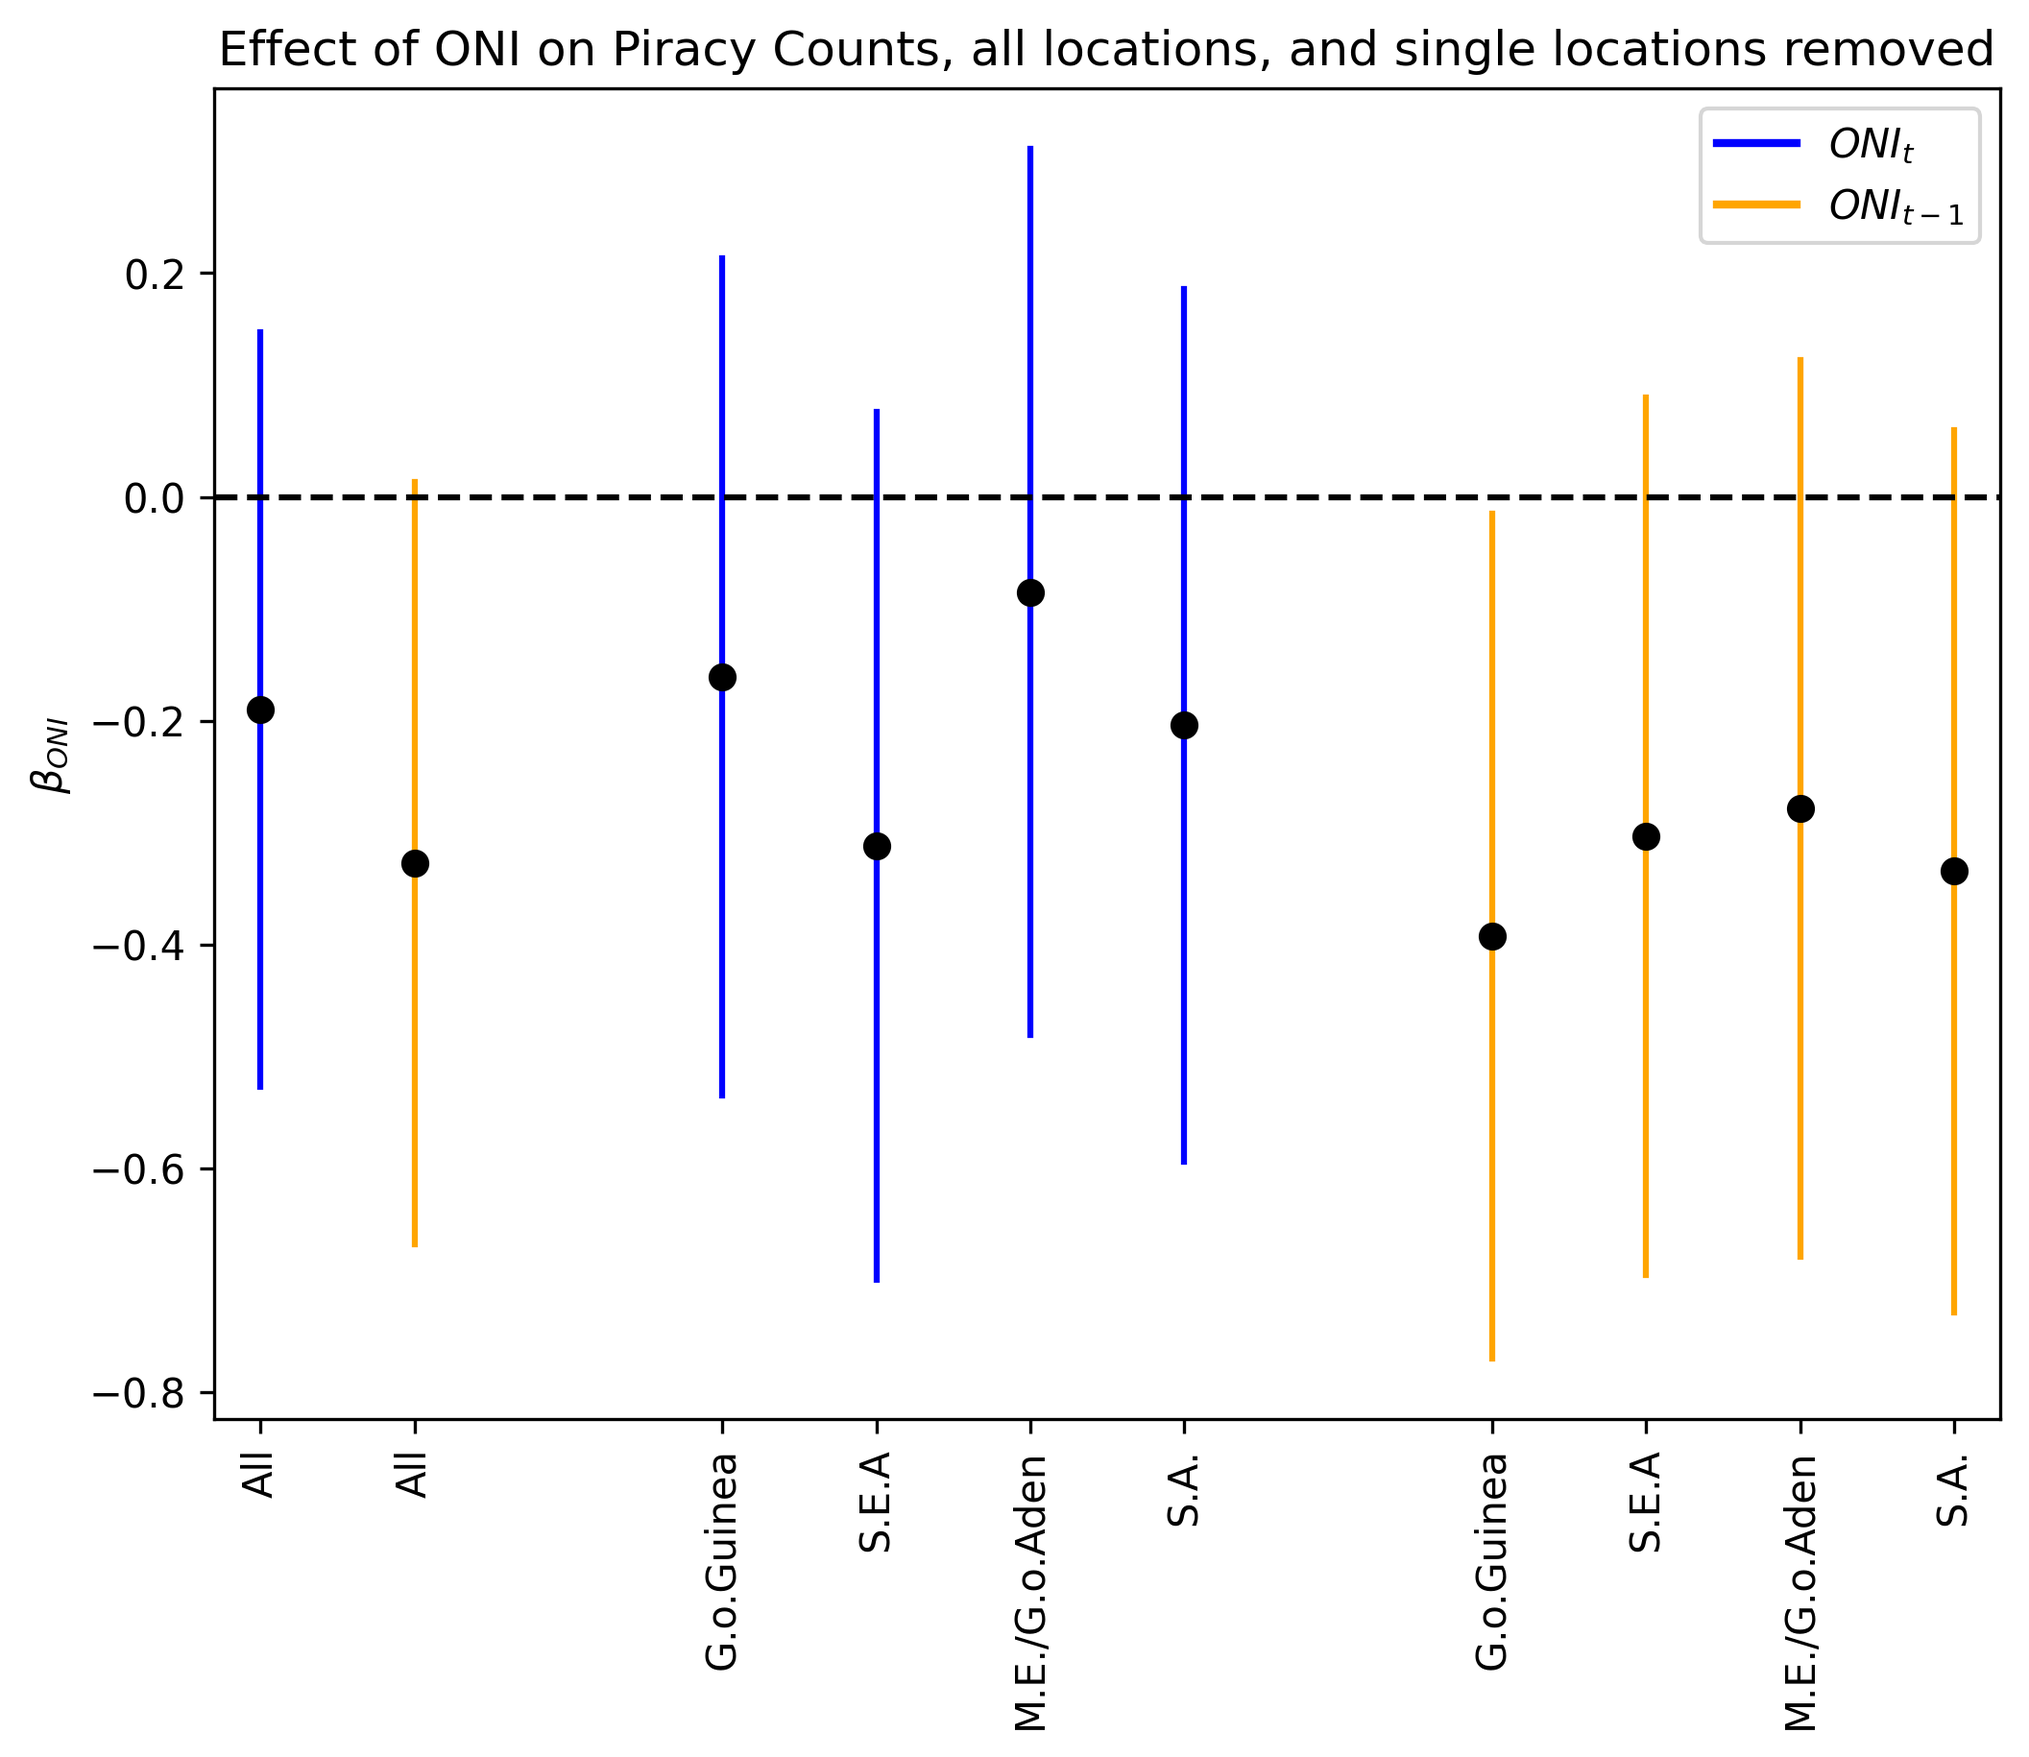
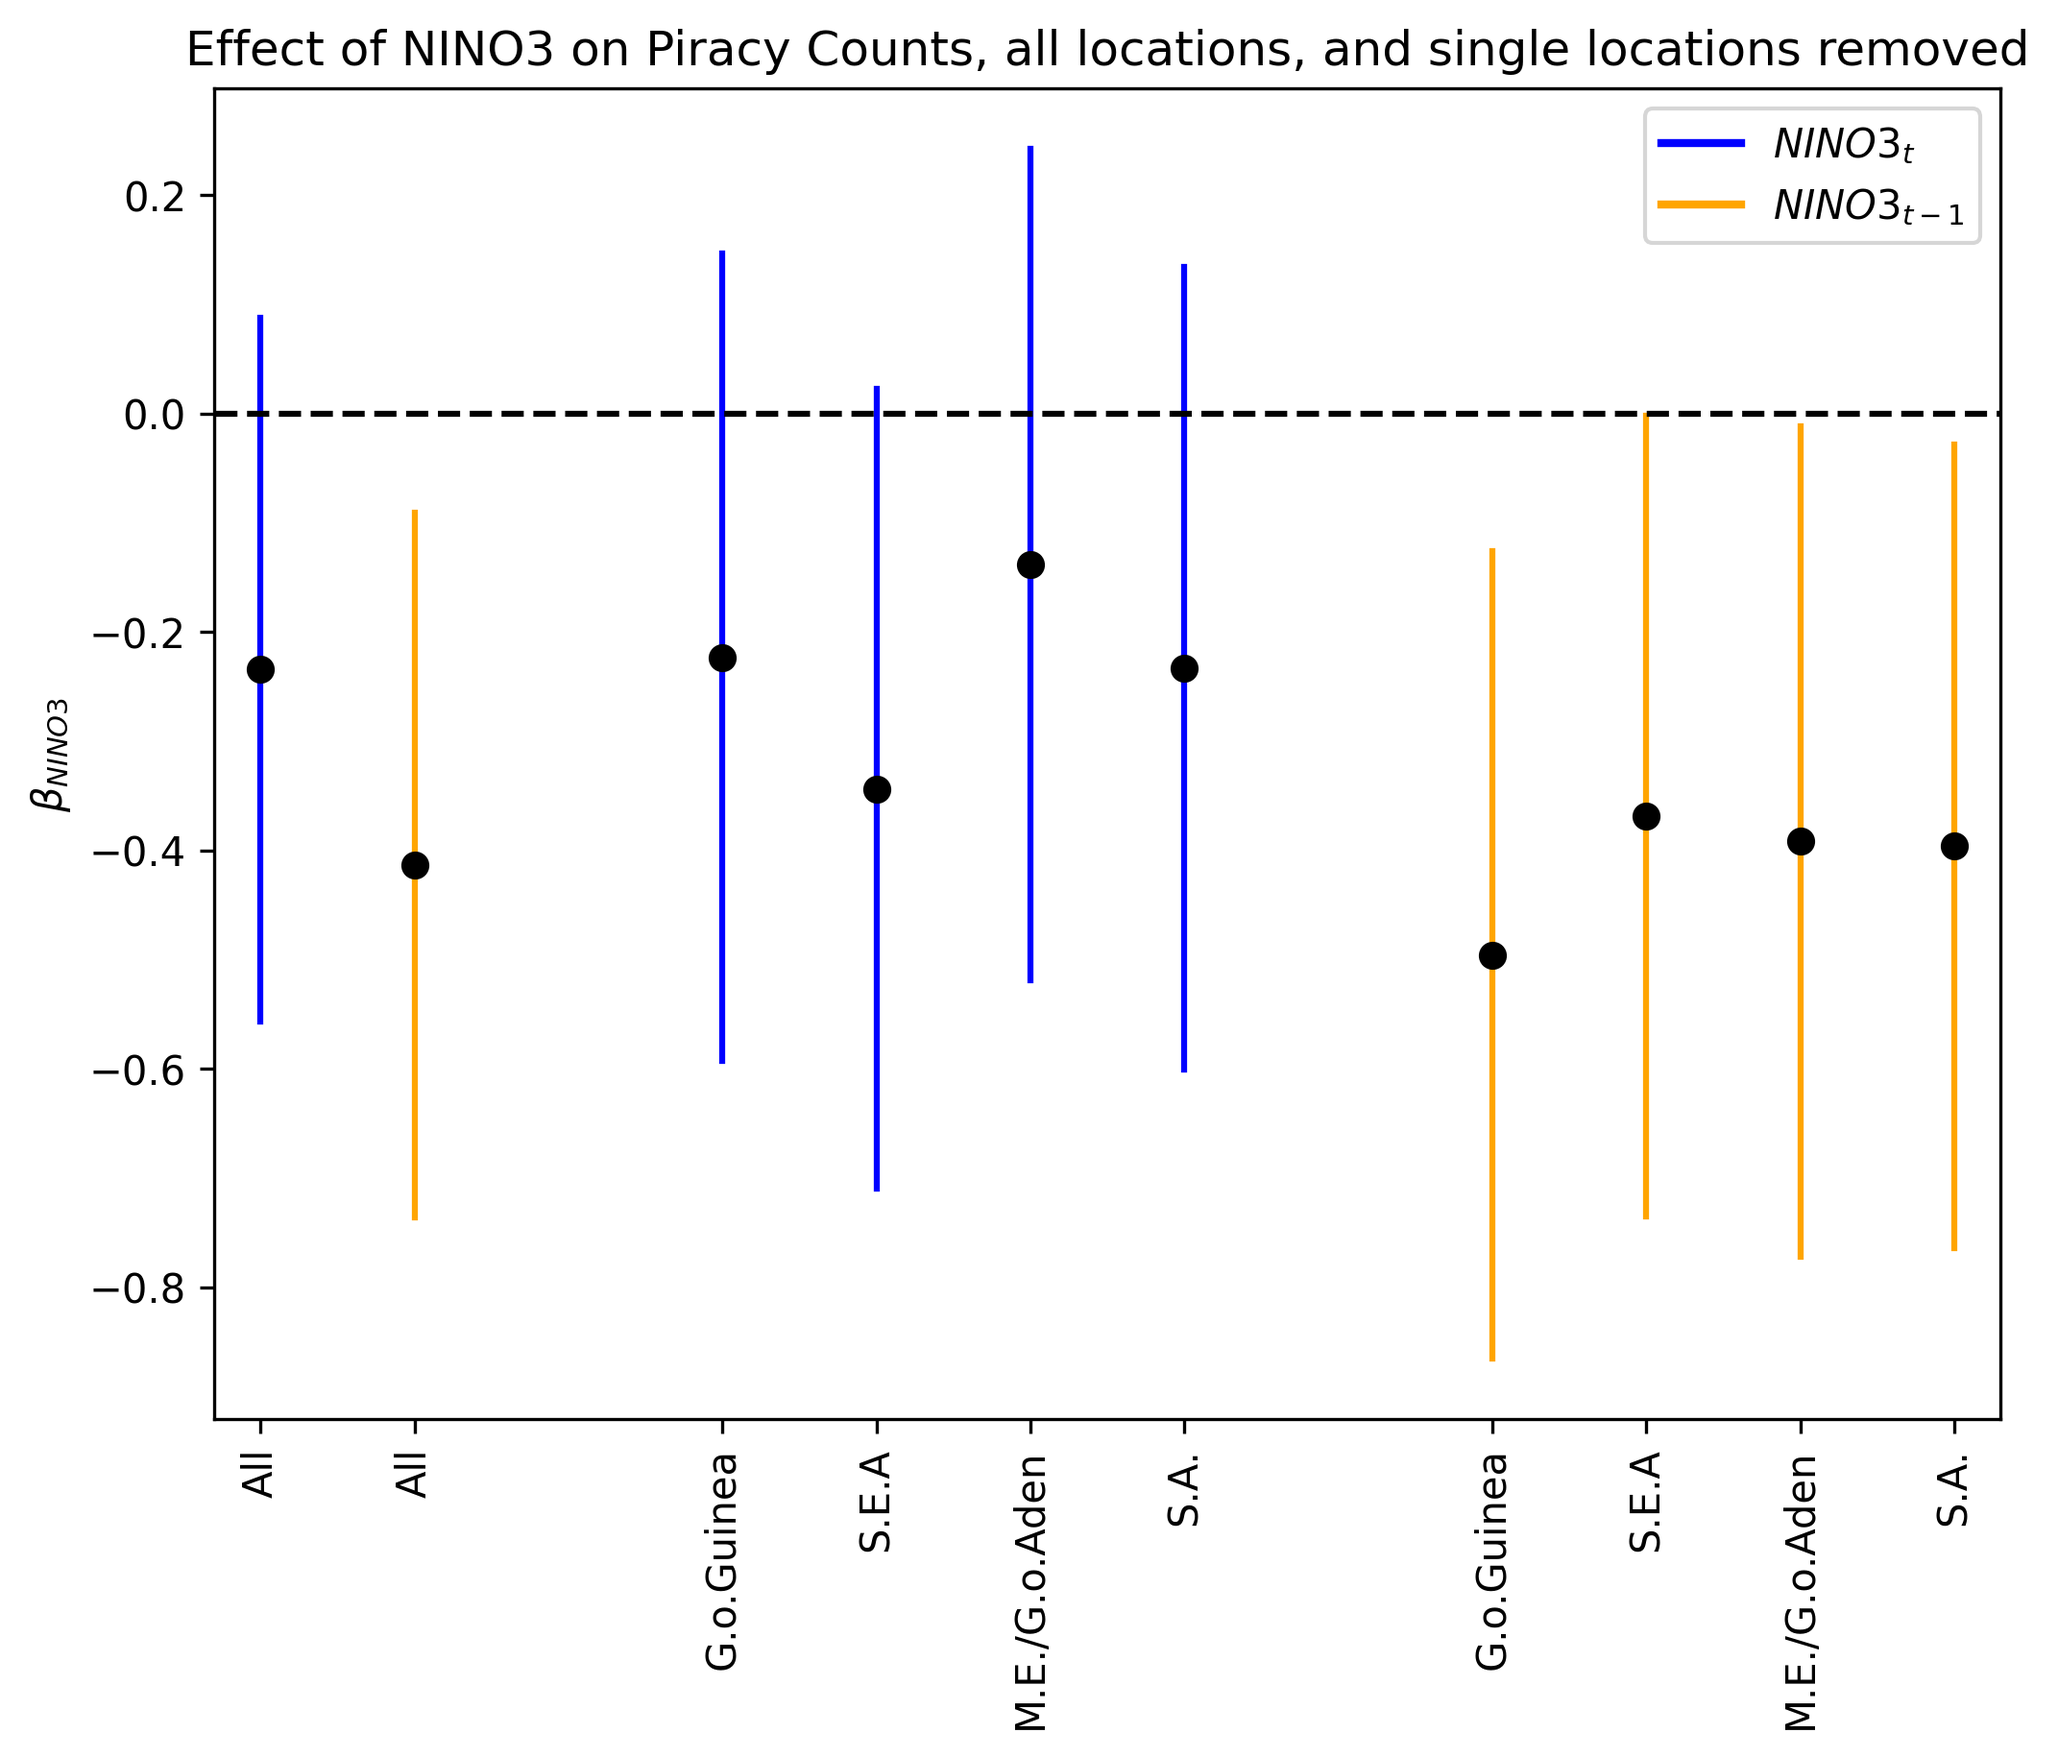
.

diff --git a/eda_yr.py b/eda_yr.py
@@ -6,6 +6,7 @@ from statsmodels.tsa.stattools import acf
 import statsmodels.api as sm
 import sys
 from datetime import datetime
+from init import compute_annualized_NINO3_index
 
 # ONI: Oceanic Nino Index (from NOAA, https://www.ncei.noaa.gov/access/monitoring/enso/sst#oni)
 # loc1 = Gulf of Guinea
@@ -64,24 +65,41 @@ df_oni.set_index('date', inplace=True)
 df_oni = df_oni.sort_index()
 df_oni = df_oni['ANOM'].resample('YE').mean() # aggregate to quarter level
 
+print(df_oni)
+
+# df_oni = np.load('/Users/tylerbagwell/Documents/GitHub/CCCV/data/NINO3_DJF_yearlyindex.npy')
+
+# print(df_oni)
+# print(df_oni.shape)
+
+# print(df_oni.flatten())
+
+# plt.plot(np.arange(df_oni.flatten().shape[0]), df_oni.flatten())
+# plt.show()
+
+
+df_oni = compute_annualized_NINO3_index(1960, 2024)
+df_oni['year'] = pd.to_datetime(df_oni['year'].astype(str) + '-12-31')
+df_oni.set_index('year', inplace=True)
+df_oni.rename(columns={'INDEX': 'ANOM'}, inplace=True)
 
 ####
-file_path_DMI = 'data/NOAA_DMI_data.txt' # DMI: Dipole Mode Index
-start_date = datetime(1950, 1, 1, 0, 0, 0)
-end_date = datetime(2023, 12, 1, 0, 0, 0)
+# file_path_DMI = 'data/NOAA_DMI_data.txt' # DMI: Dipole Mode Index
+# start_date = datetime(1950, 1, 1, 0, 0, 0)
+# end_date = datetime(2023, 12, 1, 0, 0, 0)
 
-# Read in data files
-dmi = pd.read_csv(file_path_DMI, sep='\s+', skiprows=1, skipfooter=7, header=None, engine='python')
-year_start = int(dmi.iloc[0,0])
-dmi = dmi.iloc[:,1:dmi.shape[1]].values.flatten()
-df_dmi = pd.DataFrame(dmi)
-date_range = pd.date_range(start=f'{year_start}-01-01', periods=df_dmi.shape[0], freq='ME')
-df_dmi.index = date_range
-df_dmi.rename_axis('date', inplace=True)
-df_dmi.columns = ['ANOM']
+# # Read in data files
+# dmi = pd.read_csv(file_path_DMI, sep='\s+', skiprows=1, skipfooter=7, header=None, engine='python')
+# year_start = int(dmi.iloc[0,0])
+# dmi = dmi.iloc[:,1:dmi.shape[1]].values.flatten()
+# df_dmi = pd.DataFrame(dmi)
+# date_range = pd.date_range(start=f'{year_start}-01-01', periods=df_dmi.shape[0], freq='ME')
+# df_dmi.index = date_range
+# df_dmi.rename_axis('date', inplace=True)
+# df_dmi.columns = ['ANOM']
 
-df_dmi = df_dmi.resample('YE').mean() # Aggregate to QUEARTERLY level
-df_oni = df_dmi
+# df_dmi = df_dmi.resample('YE').mean() # Aggregate to QUEARTERLY level
+# df_oni = df_dmi
 ####
 
 # combine the two data sets
@@ -101,8 +119,9 @@ piracy_oni_loc3 = piracy_oni_loc3.dropna()
 piracy_oni_loc4 = pd.concat([df_oni, piracy_counts_loc4_qtr], axis=1)
 piracy_oni_loc4 = piracy_oni_loc4.dropna()
 
+
 # create lagged columns of ONI anom.
-n_lag = 3
+n_lag = 1
 for i in range(n_lag):
     lag_string = 'ANOM_lag' + str(i+1) + 'y'
     piracy_oni[lag_string]= piracy_oni['ANOM'].shift((i+1))
@@ -302,15 +321,15 @@ ax.set_xticks(ticks=xxx, labels=labels, rotation=90)
 
 from matplotlib.lines import Line2D
 custom_lines = [
-    Line2D([0], [0], color='blue', lw=2, label=r'$DMI_{t}$'),
-    Line2D([0], [0], color='orange', lw=2, label=r'$DMI_{t-1}$')
+    Line2D([0], [0], color='blue', lw=2, label=r'$NINO3_{t}$'),
+    Line2D([0], [0], color='orange', lw=2, label=r'$NINO3_{t-1}$')
 ]
 ax.legend(handles=custom_lines)
 
-ax.set_title('Effect of DMI on Piracy Counts, all locations, and single locations removed')
-ax.set_ylabel(r'$\beta_{DMI}$')
+ax.set_title('Effect of NINO3 on Piracy Counts, all locations, and single locations removed')
+ax.set_ylabel(r'$\beta_{NINO3}$')
 
-plt.savefig('plots/piracy_dmi.png', dpi=300, bbox_inches='tight', pad_inches=0.1)
+plt.savefig('plots/piracy_oni.png', dpi=300, bbox_inches='tight', pad_inches=0.1)
 plt.show()
 
 

diff --git a/init.py b/init.py
@@ -239,6 +239,10 @@ def prepare_gridded_panel_data(regions, stepsize, num_lag, show_grid=False, show
 
     return final_gdf
 
-data = prepare_gridded_panel_data(regions='Africa', stepsize=2.0, num_lag=1, show_grid=False, show_gridded_tot_counts=False)
+# data = prepare_gridded_panel_data(regions='Africa', stepsize=3.0, num_lag=1, show_grid=True, show_gridded_tot_counts=False)
 
+# print(data.shape)
 # data.to_csv('/Users/tylerbagwell/Desktop/prepared_conflict_data.csv')
+
+# annual_index = compute_annualized_NINO3_index(1960, 2024)
+# print(annual_index)

diff --git a/main.py b/main.py
@@ -7,3 +7,17 @@ from datetime import datetime, timedelta
 
 print('\n\nSTART ---------------------\n')
 
+import numpy as np
+import time
+
+def invert_matrix(n):
+    A = np.random.rand(n, n)
+    start_time = time.time()
+    A_inv = np.linalg.inv(A)
+    end_time = time.time()
+    return (end_time - start_time) * 1000  # Convert to milliseconds
+
+sizes = [10, 100, 1000, 10000, 25000]
+for size in sizes:
+    inversion_time = invert_matrix(size)
+    print(f"Inverting a {size}x{size} matrix took {inversion_time:.4f} ms")
